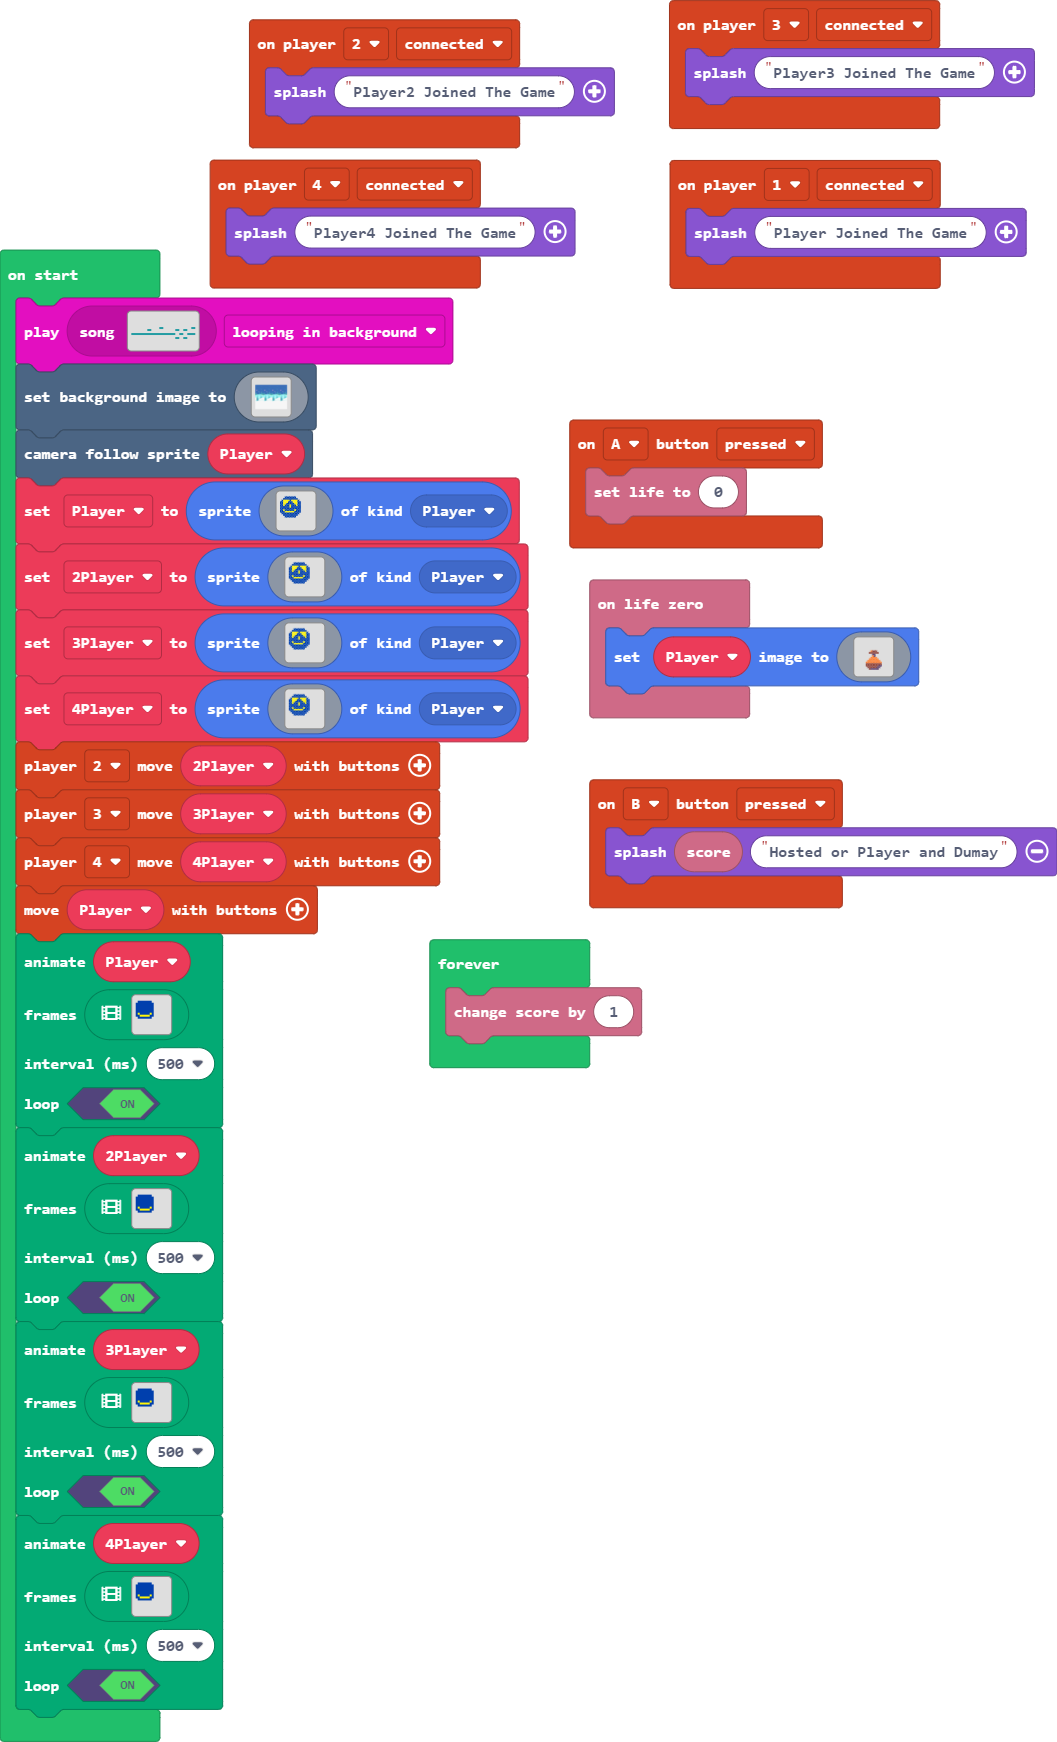
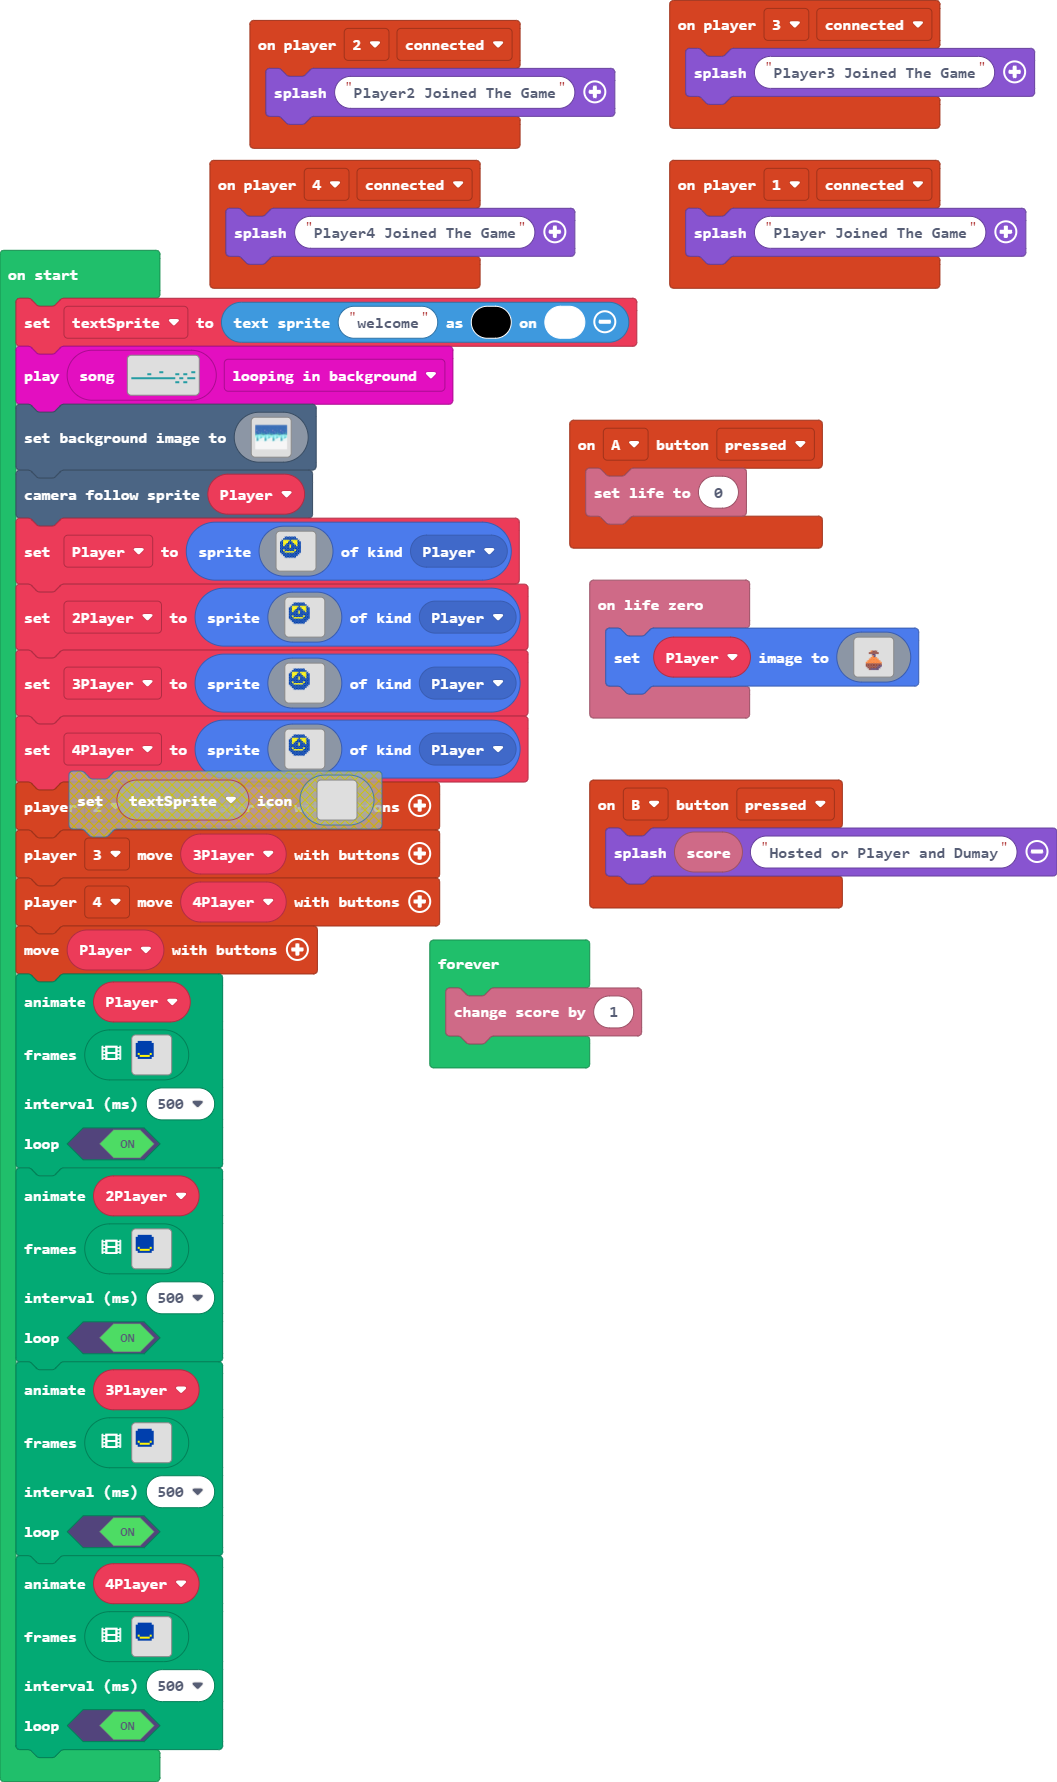
Welcome 0.0.0

Changed region(s): [[0.0, 0.0, 1.0, 0.992]]

diff --git a/main.ts b/main.ts
@@ -41,6 +41,7 @@ controller.player1.onEvent(ControllerEvent.Connected, function () {
     game.splash("Player Joined The Game")
 })
 let Player: Sprite = null
+let textSprite = textsprite.create("welcome", 1, 15)
 music.play(music.createSong(assets.song`Backmu`), music.PlaybackMode.LoopingInBackground)
 scene.setBackgroundImage(img`
     8888888888888888888888888888888888888888888888888888888888888888888888888888888888888888888888888888888888888888888888888888888888888888888888888888888888888888
